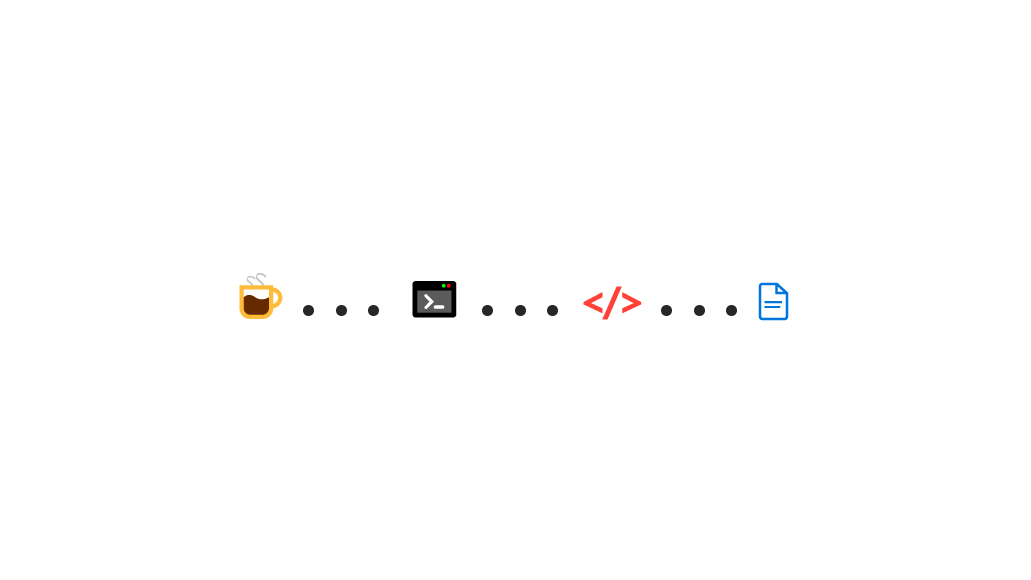
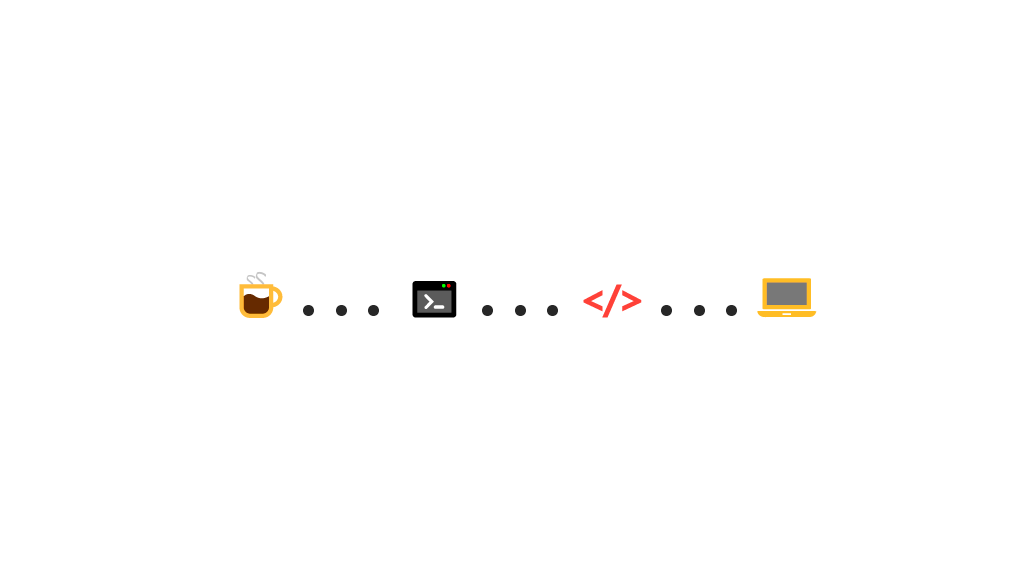
Mudança imagem e footer
Mudança imagem e footer

Changed region(s): [[0.7139, 0.4655, 0.807, 0.5586], [0.5587, 0.4966, 0.6208, 0.5586], [0.2173, 0.4655, 0.2793, 0.5586]]

diff --git a/index.html b/index.html
@@ -194,7 +194,20 @@
         </div>
       </section>
 
+      <!--  -->
+      <footer class="probootstrap-footer probootstrap-bg" style="">
+        <div class="container">
+          <div class="row mb60">
+            <div class="col-md-3">
+              <small>Desenvolvido por <a href="mailto:rodolfosantos23@gmail.com">#Rodolfo Santos</a></small>
+            </div>
 
+          </div>
+        </div>
+      </footer>
+
+
+      <!--  -->
       <script src="https://code.jquery.com/jquery-3.6.0.min.js" type="text/javascript"></script>
       <script src="https://kit.fontawesome.com/07376d875c.js" crossorigin="anonymous"></script>
 

diff --git a/css/globals.css b/css/globals.css
@@ -65,6 +65,10 @@ a {
   width: 100%;
 }
 
+.col-md-3 {
+  width: 25%;
+}
+
 hr {
   margin: 10px 0;
   height: 0.85px;
@@ -239,6 +243,18 @@ b.repo-listody::-webkit-scrollbar-track {
 .repo-list::-webkit-scrollbar-thumb {
   background-color: #589ad3;
   outline: 1px solid #589ad3;
+}
+
+footer {
+  background: #202020;
+  margin-top: 46px;
+  color: #a6a6a6;
+  padding: 43px 0;
+}
+
+.col-md-3 {
+  width: 25%;
+  float: left;
 }
 
 /********* Rotate animation **********/
